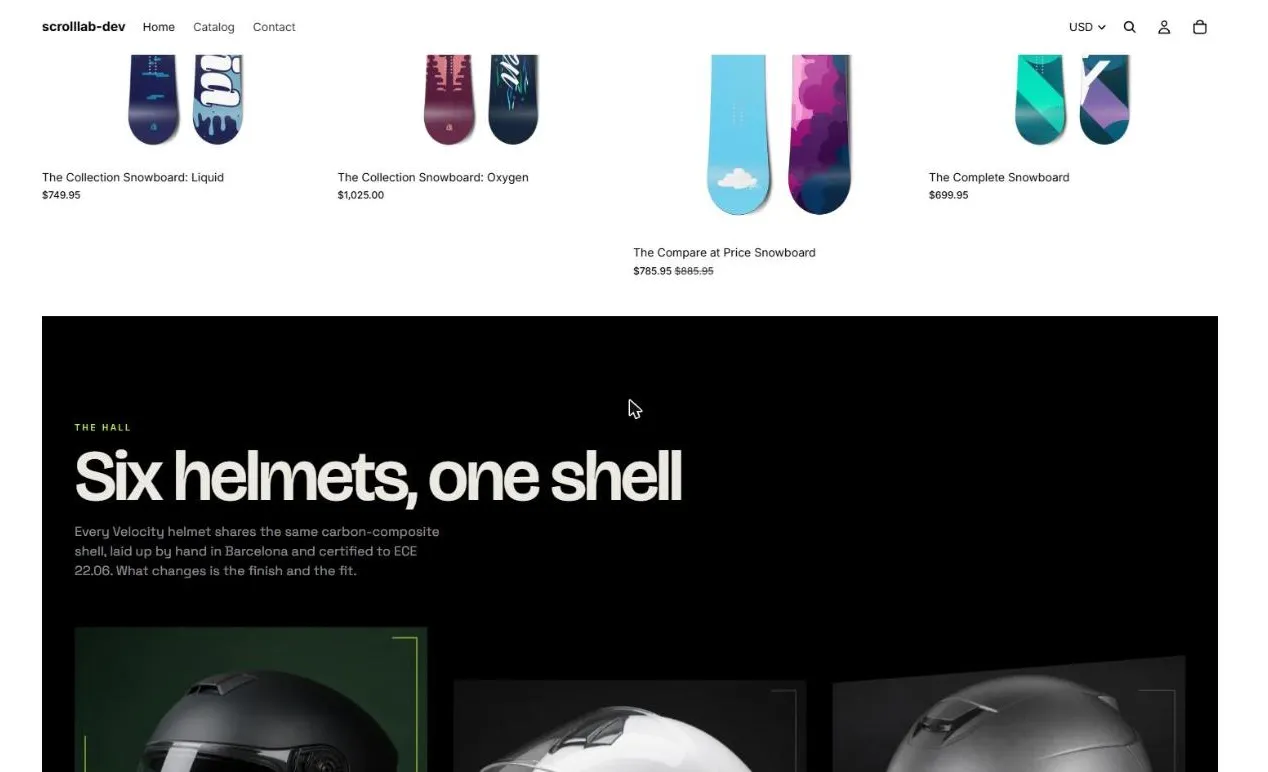
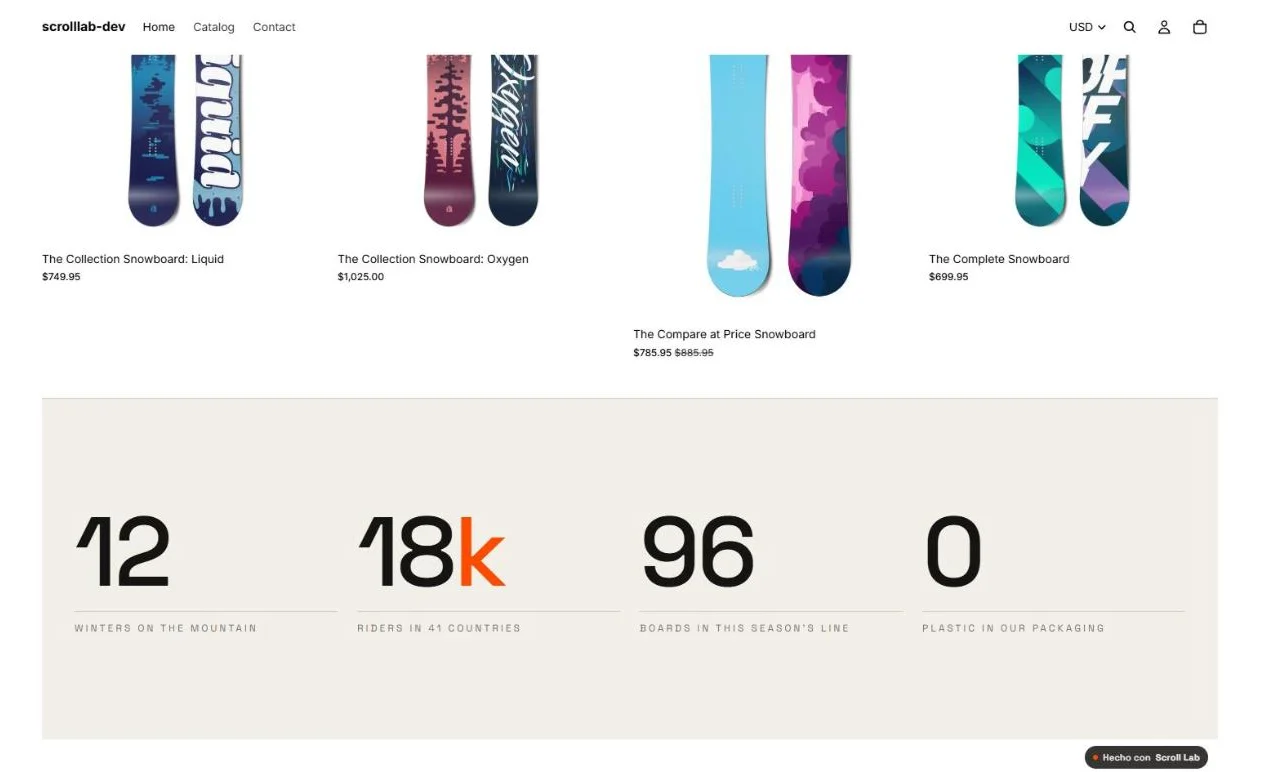
/lab/shopify: capturas con un widget de un template en venta
Las capturas mostraban un widget de VELOCITY (retirado el 2026-10-18).
Ahora la tienda de prueba muestra el de cifras de CHAPTERS con textos de
la tienda de snowboards, editados desde LAB.

diff --git a/src/lib/labShopifyPage.js b/src/lib/labShopifyPage.js
@@ -1,7 +1,7 @@
 /**
  * /lab/shopify: la guía para usar LAB en una tienda Shopify. Es la página que
  * busca quien quiere «animaciones para Shopify»: en español (lo que se indexa),
- * con capturas reales de una tienda de desarrollo (tema Horizon, 2026-10-27).
+ * con capturas reales de una tienda de desarrollo (tema Horizon, 2026-10-28).
  *
  * La página de React, el HTML que se emite en el build (scripts/gen-share-pages.mjs)
  * y los tests leen este mismo objeto, así no se despegan. Todo lo que dice se
@@ -30,7 +30,7 @@ export const LAB_SHOPIFY = {
     src: '/lab/shopify/store-widget.webp',
     width: 1268,
     height: 772,
-    alt: 'Una tienda Shopify con el tema Horizon: la grilla de productos y, debajo, un widget de LAB a todo el ancho',
+    alt: 'Una tienda de snowboards en Shopify con el tema Horizon: la grilla de tablas y, debajo, un widget de LAB con las cifras de la tienda',
     caption: 'Un widget de LAB en una tienda Shopify con el tema Horizon, debajo de los productos.',
   },
   stepsTitle: 'Cómo se pone en tu tienda',
@@ -50,9 +50,9 @@ export const LAB_SHOPIFY = {
   ],
   editor: {
     src: '/lab/shopify/editor-custom-liquid.webp',
-    width: 972,
-    height: 726,
-    alt: 'El editor de temas de Shopify con la sección «Liquid personalizado» abierta: el código del widget en el cuadro «Código Liquid» y el widget en la vista previa',
+    width: 1568,
+    height: 676,
+    alt: 'El editor de temas de Shopify con la sección «Liquid personalizado» seleccionada: el código del widget en el cuadro «Código Liquid» y el widget en la vista previa',
     caption: 'La sección «Liquid personalizado» con el código del widget, y el widget en la vista previa del editor.',
   },
   whyTitle: 'Por qué así y no con una app',
@@ -66,8 +66,8 @@ export const LAB_SHOPIFY = {
   gridImage: {
     src: '/lab/shopify/store-widget-grid.webp',
     width: 1268,
-    height: 726,
-    alt: 'El mismo widget de LAB dentro de la tienda Shopify: título grande y una grilla de cascos que entran con el scroll',
+    height: 400,
+    alt: 'El widget de LAB dentro de la tienda Shopify: cuatro cifras grandes que cuentan con el scroll, con los textos de la tienda editados desde LAB',
   },
   faqTitle: 'Preguntas',
   faq: [
